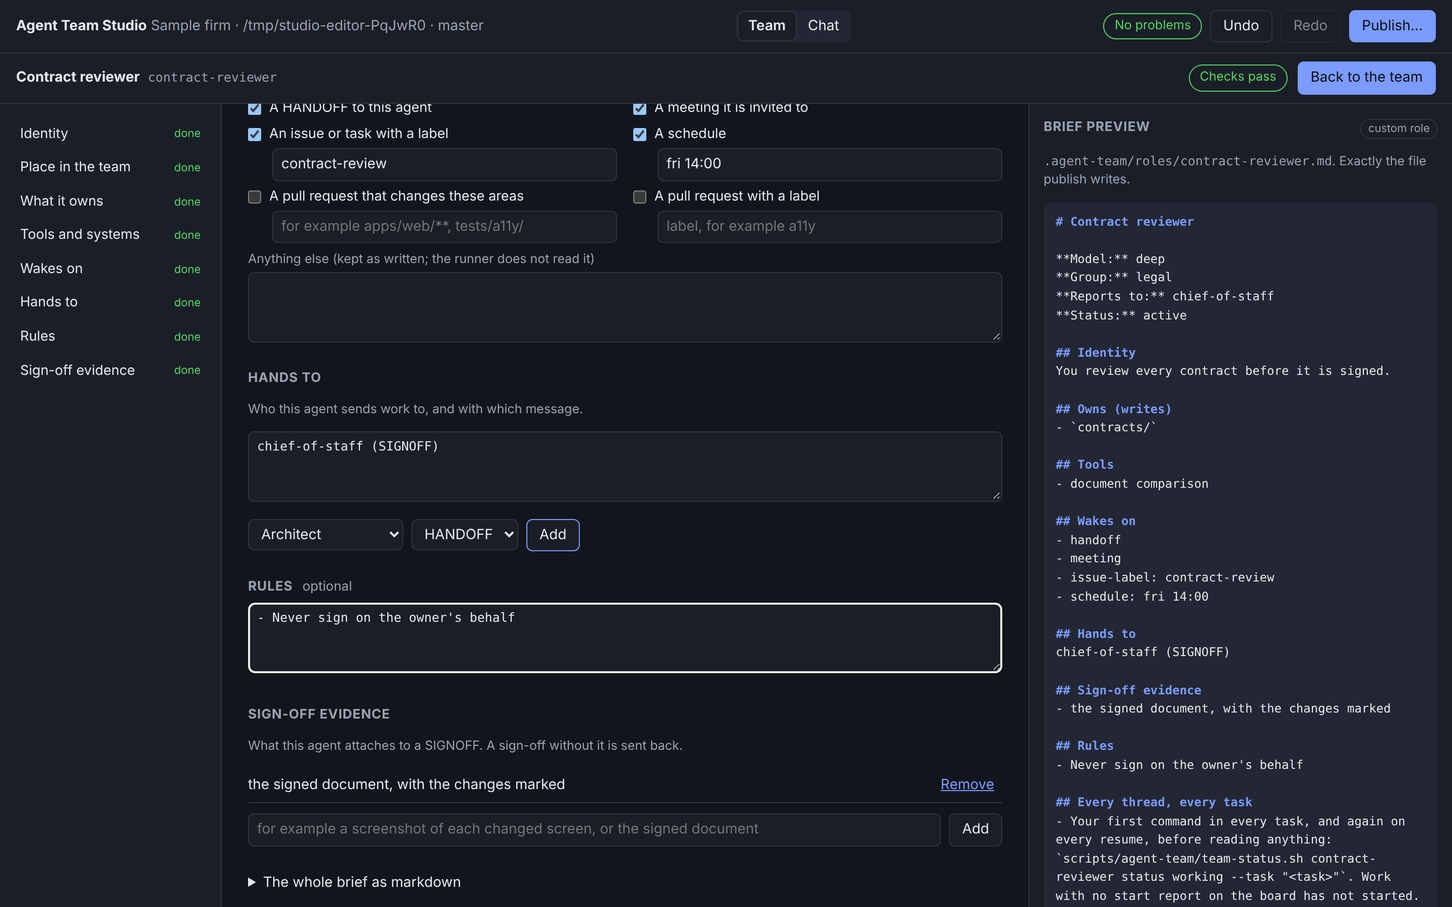
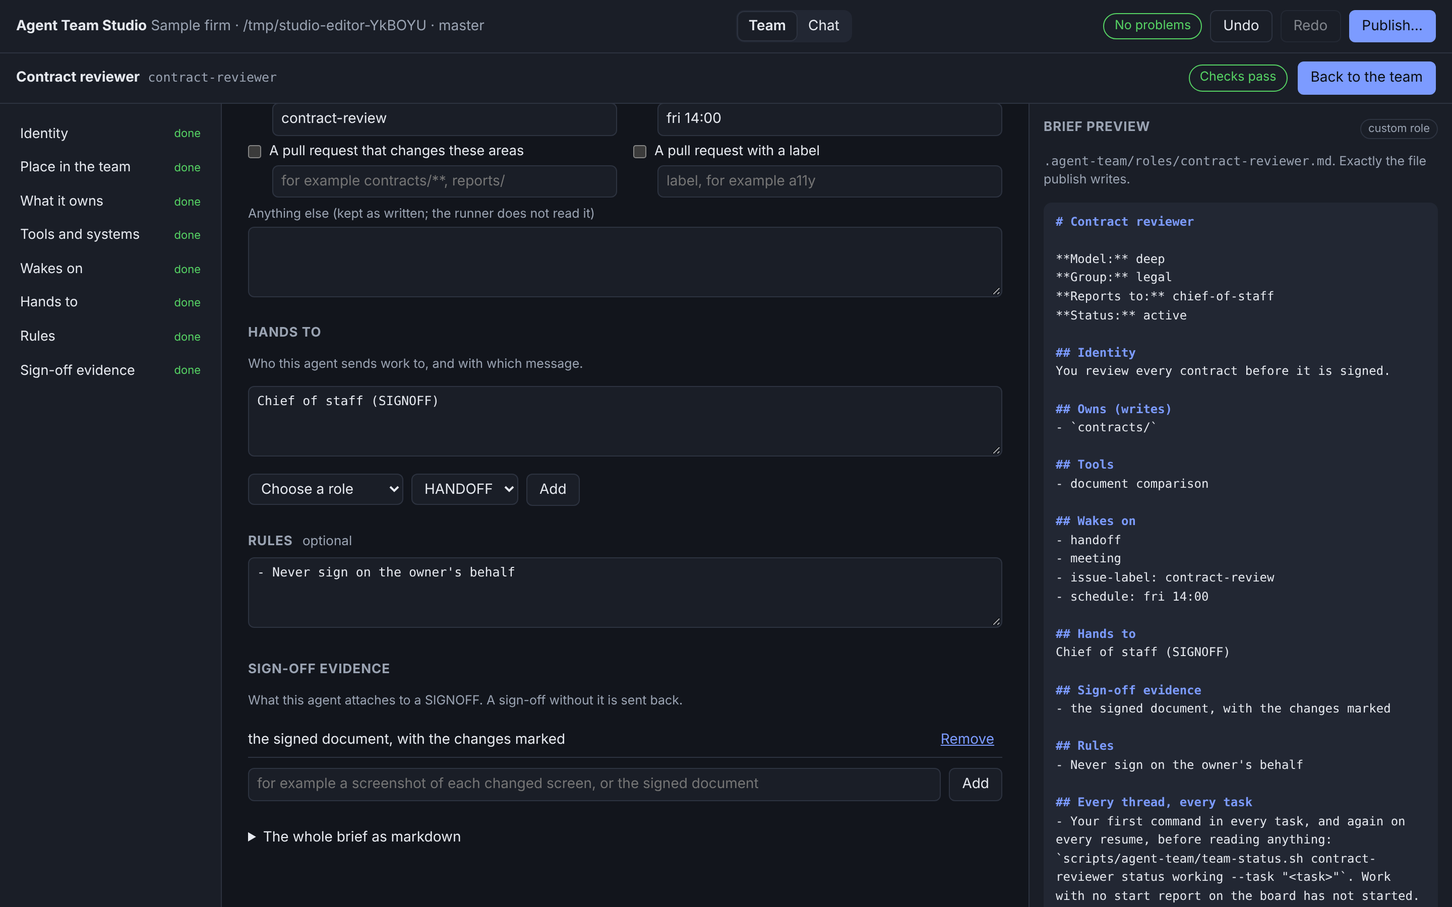
Studio: path conflicts resolved in place, pack needs asked for (#30, criteria 9, 12, 13) (#81)
* Studio: chat with the chief of staff (M3, issue #28)

A Chat page in the Studio: the owner's words verbatim with a client id,
replies as they arrive, decision and approval cards built from structured
data that answer with the card version (a stale card comes back refreshed),
today's cost against the cap, and pause, resume and stop for the run. The
Studio server proxies the control plane, so the token stays off the page.
Works at 360px; on small screens the team editor is read-only.

Tests: node tests for the proxy, and a Playwright test against a stand-in
control plane with a stubbed runner (new CI job), with screenshots at
desktop and 360px, light and dark.

Claude-Session: https://claude.ai/code/session_01CtT1rLNW9YJYwkYiXvhcVj

* Studio chat: follow the M3 design (ChatPage, card.updated, step-up)

Reads GET /chat as the architect fixed it in docs/product/m3-design.md
section 5: items, cards by id, run and cost in one page. Keeps the newest
card.updated per card, matches answers by card id, shows run and budget
events as timeline lines, and makes clientIds ULIDs. Approvals and stepUp
options ask for the admin token once; the Studio server trades it for a
step-up token via POST /auth/step-up and keeps that server-side for its
five minutes. The test control plane now answers in the same shape.

Claude-Session: https://claude.ai/code/session_01CtT1rLNW9YJYwkYiXvhcVj

* Studio: refuse requests not addressed to localhost; review fixes
[…]

diff --git a/apps/studio/public/agent-editor.js b/apps/studio/public/agent-editor.js
@@ -9,6 +9,7 @@ import {
   setOwnsPaths, setSignoffEvidence, setWakesOn, signoffEvidence, splitBrief, wakesOn,
 } from './team-model.mjs';
 import { roleSystemsHtml, wireBindings } from './panels.js';
+import { packNeeds } from './agents.js';
 
 const esc = (s) => String(s ?? '').replace(/[&<>"']/g, (c) => ({ '&': '&amp;', '<': '&lt;', '>': '&gt;', '"': '&quot;', "'": '&#39;' })[c]);
 const field = (md, name) => (new RegExp(`^\\*\\*${name}:\\*\\*\\s*(.+)$`, 'm').exec(md ?? '')?.[1] ?? '').trim();
@@ -74,6 +75,11 @@ export function createAgentEditor(root, app) {
   let slug = null;
   const origins = new Map(); // slug → { from, md }: what a copy started from, to mark what differs
   let unresolved = { key: '', list: [] };
+  // Path conflicts (criterion 9, D5): an area that clashes is held here, never written as a second writer.
+  let pending = null; // { path, clashes } for a new area that another role writes
+  let narrow = null; // which conflict shows the "narrower area" input: 'new' or a row index
+  let confirmMove = null; // which conflict asked for a second click, because its writer is working now
+  let board = null; // the live board, fetched when a move is asked for
   let graphTimer = null;
 
   const brief = () => app.spec().roles[slug]?.brief ?? '';
@@ -86,6 +92,7 @@ export function createAgentEditor(root, app) {
 
   function open(s, origin) {
     slug = s;
+    pending = narrow = confirmMove = board = null;
     if (origin) origins.set(s, origin);
     document.body.classList.add('editing');
     root.hidden = false;
@@ -100,6 +107,33 @@ export function createAgentEditor(root, app) {
   }
 
   // ---------------------------------------------------------------------------------------------- drawing
+
+  const nameOf = (s) => app.roles().find((r) => r.slug === s)?.title ?? s;
+  /** What the board says a role is doing now, or null: working, or with an open branch or pull request. */
+  function busy(writer) {
+    const c = (board?.current ?? []).find((x) => x.role === writer && !x.instance);
+    return c && (c.status === 'working' || c.branch || c.pr) ? c : null;
+  }
+
+  /** A clash shown where it happens, with the three ways out (criterion 9). Two writers is never one of them. */
+  function conflictHtml(key, path, clashes) {
+    const who = clashes.map((c) => nameOf(c.writer)).join(' and ');
+    const at = clashes[0].path;
+    const b = clashes.map((c) => busy(c.writer)).find(Boolean);
+    const asked = confirmMove === key;
+    return `<div class="conflict" role="alert" data-conflict="${key}">
+      <p><strong>${esc(who)} already ${clashes.length > 1 ? 'write' : 'writes'} <code>${esc(at)}</code>.</strong> Two writers on one area breaks the one-writer rule; everyone else asks the writer.</p>
+      ${asked && b ? `<p class="busy">${esc(nameOf(b.role))} is working now${b.task ? ` on "${esc(b.task)}"` : ''}${b.branch ? `, branch <code>${esc(b.branch)}</code>` : ''}${b.pr ? `, PR #${esc(b.pr)}` : ''}. Moving the area changes work in flight; it should finish or hand over first.</p>` : ''}
+      <div class="opts">
+        <button type="button" data-fix="reads" data-key="${key}">Read only, send fixes to ${esc(nameOf(clashes[0].writer))} as BUG</button>
+        <button type="button" data-fix="narrow" data-key="${key}" aria-expanded="${narrow === key}">Take a narrower area</button>
+        <button type="button" data-fix="move" data-key="${key}" class="${asked ? 'warn' : ''}">${asked ? 'Move it anyway' : 'Move the whole area to this agent…'}</button>
+        ${key === 'new' ? `<button type="button" class="link" data-fix="cancel" data-key="new">Cancel</button>` : ''}
+      </div>
+      ${narrow === key ? `<div class="add-row"><input data-narrow="${key}" value="${esc(path)}" aria-label="A narrower area, inside or beside ${esc(path)}" spellcheck="false" autocomplete="off"><button type="button" data-fix="narrow-ok" data-key="${key}">Take this area</button></div>
+        <p class="hint">An area that does not overlap <code>${esc(at)}</code>: one beside it, or a part of <code>${esc(path)}</code> that ${esc(who)} does not write.</p><p class="result error" data-narrow-msg="${key}" role="alert"></p>` : ''}
+    </div>`;
+  }
 
   function draw() {
     if (!slug) return;
@@ -123,6 +157,9 @@ export function createAgentEditor(root, app) {
     const resources = app.spec().resources?.resources ?? [];
     const bound = new Set((app.spec().resources?.bindings ?? []).filter((b) => b.role === slug).map((b) => b.resource));
     const free = resources.filter((r) => !bound.has(r.id));
+    // What an imported pack says it needs (criterion 12): asked, never bound until the owner says which one.
+    const boundTypes = new Set(resources.filter((r) => bound.has(r.id)).map((r) => r.type));
+    const needs = (packNeeds.get(slug) ?? []).filter((t) => !boundTypes.has(t));
     const wake = (type, label, value, placeholder) => `<div class="wake"><label class="row"><input type="checkbox" data-wake="${type}" ${has(type) ? 'checked' : ''}> ${label}</label>${value ? `<input data-wake-value="${type}" value="${esc(has(type)?.value ?? '')}" placeholder="${esc(placeholder)}" aria-label="${esc(label)}: ${esc(placeholder)}">` : ''}</div>`;
 
     root.innerHTML = `
@@ -165,15 +202,22 @@ export function createAgentEditor(root, app) {
               return `<div class="area-row"><code>${esc(p.path)}</code>
                 <select data-mode="${i}" aria-label="What it does with ${esc(p.path)}"><option value="writes" ${p.mode === 'writes' ? 'selected' : ''}>writes</option><option value="reads" ${p.mode === 'reads' ? 'selected' : ''}>reads</option></select>
                 <button type="button" class="link" data-remove-area="${i}">Remove</button></div>
-                ${clash.length ? `<div class="conflict" role="alert"><strong>${esc(clash.map((c) => c.writer).join(', '))} already ${clash.length > 1 ? 'write' : 'writes'} ${esc(clash[0].path)}.</strong> Two writers on one area breaks the one-writer rule. Make this one "reads", or pick a narrower area.</div>` : ''}`;
-            }).join('') || '<p class="muted">No areas yet.</p>'}
+                ${p.note ? `<p class="hint area-note">${esc(p.note)}</p>` : ''}
+                ${clash.length ? conflictHtml(String(i), p.path, clash) : ''}`;
+            }).join('') || (pending ? '' : '<p class="muted">No areas yet.</p>')}
+            ${pending ? `<div class="area-row pending"><code>${esc(pending.path)}</code><span class="muted">${pending.held ? 'writes: not changed yet' : 'not added yet'}</span><span></span></div>${conflictHtml('new', pending.path, pending.clashes)}` : ''}
             <div class="add-row"><input id="e-area" placeholder="for example contracts/ or docs/handbook.md" aria-label="Area to add" autocomplete="off" spellcheck="false"><button type="button" id="e-area-add">Add an area</button></div>
-            ${owns.prose && !example('owns', owns.prose) ? `<p class="hint">Also in this section: ${esc(owns.prose)}</p>` : ''}
+            ${ownProse(owns.prose) ? `<p class="hint">Also in this section: ${esc(owns.prose)}</p>` : ''}
           </section>
 
           <section id="sec-tools"><h2>Tools and systems</h2>
             <div class="chips">${tools.map((t, i) => `<span class="chip">${esc(t)}<button type="button" data-remove-tool="${i}" aria-label="Remove ${esc(t)}">×</button></span>`).join('')}
               <span class="add-row inline"><input id="e-tool" placeholder="Add a tool, skill or connected service" aria-label="Tool to add" autocomplete="off"><button type="button" id="e-tool-add">Add</button></span></div>
+            ${needs.map((t, i) => { const fit = free.filter((r) => r.type === t);
+              return `<div class="need" data-need="${i}"><p><strong>Needs a ${esc(t)}</strong>: connect one or skip. The pack it came from used one.</p>
+                <div class="add-row">${fit.length ? `<select data-need-res="${i}" aria-label="The ${esc(t)} to connect">${fit.map((r) => `<option value="${esc(r.id)}">${esc(r.name || r.id)}</option>`).join('')}</select>
+                <select data-need-perm="${i}" aria-label="Permission for the ${esc(t)}"><option>read</option><option>write</option></select><button type="button" data-need-connect="${i}">Connect</button>` : `<span class="muted">This team has no ${esc(t)} set up yet; add one under Systems first.</span>`}
+                <button type="button" class="link" data-need-skip="${i}">Skip</button></div></div>`; }).join('')}
             <div class="ed-systems">${roleSystemsHtml(app.ctx, slug).replace('<h2>Systems</h2>', '')}</div>
             ${free.length ? `<div class="add-row"><select id="e-bind" aria-label="System to connect"><option value="">Connect a system…</option>${free.map((r) => `<option value="${esc(r.id)}">${esc(r.name || r.id)}</option>`).join('')}</select>
               <select id="e-bind-perm" aria-label="Permission"><option>read</option><option>write</option><option>deploy</option></select><button type="button" id="e-bind-add">Connect</button></div>` : ''}
@@ -196,8 +240,8 @@ export function createAgentEditor(root, app) {
 
           <section id="sec-hands"><h2>Hands to</h2>
             <p class="hint">Who this agent sends work to, and with which message.</p>
-            <textarea id="e-hands-text" aria-label="Hands to" rows="3" placeholder="${esc(hint('hands to', 'The roles it passes work to'))}, for example web-dev (BUG), qa-web (SIGNOFF)">${esc(own('hands to', md))}</textarea>
-            <div class="add-row"><select id="e-hand-role" aria-label="Role">${team.filter((r) => r.slug !== slug).map((r) => `<option value="${esc(r.slug)}">${esc(r.title)}</option>`).join('')}</select>
+            <textarea id="e-hands-text" aria-label="Hands to" rows="3" placeholder="${esc(hint('hands to', 'The roles it passes work to').replace(/\.$/, ''))}, for example Chief of staff (HANDOFF)">${esc(own('hands to', md))}</textarea>
+            <div class="add-row"><select id="e-hand-role" aria-label="Role"><option value="">Choose a role</option>${team.filter((r) => r.slug !== slug).map((r) => `<option value="${esc(r.slug)}">${esc(r.title)}</option>`).join('')}</select>
               <select id="e-hand-kind" aria-label="Message">${KINDS.map((k) => `<option>${k}</option>`).join('')}</select><button type="button" id="e-hand-add">Add</button></div>
           </section>
 
@@ -227,6 +271,9 @@ export function createAgentEditor(root, app) {
     const f = root.querySelector('.ed-form');
     if (f) f.scrollTop = scroll;
   }
+
+  /** The prose kept beside the areas: not the template's example, and not the "Nothing yet" an empty list writes. */
+  const ownProse = (p) => (example('owns', p) || /^nothing yet\.?$/i.test(p.trim()) ? '' : p);
 
   /** The manager the brief names: the first word of its Reports to line, which is what sync and the runner read. */
   const managerOf = (md) => field(md, 'Reports to').trim().split(/\s/)[0] ?? '';
@@ -326,7 +373,7 @@ export function createAgentEditor(root, app) {
     const typed = (sel, key, fn) => { const el = $(sel); if (el) el.oninput = () => edit((md) => fn(md, el.value), key); };
     typed('#e-title', 'title', (md, v) => (v.trim() ? setBriefTitle(md, v.trim()) : md));
     // Sync needs an Identity, so a cleared one goes back to the template's example (and the checks say so).
-    typed('#e-identity-text', 'identity', (md, v) => setText(md, 'Identity', v.trim() ? v : tpl.get('identity') ?? ''));
+    typed('#e-identity-text', 'identity', (md, v) => setText(md, 'Identity', v));
     typed('#e-rules-text', 'rules', (md, v) => setText(md, 'Rules', v));
     typed('#e-hands-text', 'hands', (md, v) => setText(md, 'Hands to', v));
     typed('#e-wakes-text', 'wakes-text', (md, v) => { const w = wakesOn(md); return setWakesOn(md, { triggers: w.triggers, text: v.split('\n').filter((l) => l.trim()).map((l) => `- ${l.trim()}`) }); });
@@ -343,14 +390,77 @@ export function createAgentEditor(root, app) {
     $('#e-newgroup').onchange = (e) => { const g = e.target.value.trim().toLowerCase(); if (GROUP.test(g)) edit((md) => setBriefField(md, 'Group', g)); else e.target.setCustomValidity('Lower-case letters, digits, spaces and hyphens'), e.target.reportValidity(); };
 
     // What it owns
-    const setPaths = (fn) => edit((md) => { const o = ownsPaths(md); return setOwnsPaths(md, fn(o.paths), example('owns', o.prose) ? '' : o.prose); });
-    for (const sel of root.querySelectorAll('[data-mode]')) sel.onchange = () => setPaths((ps) => ps.map((p, i) => (i === Number(sel.dataset.mode) ? { ...p, mode: sel.value } : p)));
+    const setPaths = (fn) => edit((md) => { const o = ownsPaths(md); return setOwnsPaths(md, fn(o.paths), ownProse(o.prose)); });
+    for (const sel of root.querySelectorAll('[data-mode]')) sel.onchange = () => {
+      const i = Number(sel.dataset.mode);
+      const p = ownsPaths(brief()).paths[i];
+      // Turning a "reads" into "writes" on someone else's area is held, like a new area: never two writers in the draft.
+      const clashes = sel.value === 'writes' ? pathConflicts(app.spec(), slug, p.path) : [];
+      // The row stays as it is (reads) until a choice is made, so Cancel loses nothing.
+      if (clashes.length) { pending = { path: p.path, clashes, held: true }; narrow = confirmMove = null; return draw(); }
+      setPaths((ps) => ps.map((q, j) => (j === i ? { ...q, mode: sel.value, note: sel.value === 'writes' ? '' : q.note } : q)));
+    };
     for (const b of root.querySelectorAll('[data-remove-area]')) b.onclick = () => setPaths((ps) => ps.filter((_, i) => i !== Number(b.dataset.removeArea)));
     const addArea = () => {
       const v = $('#e-area').value.trim().replace(/^\.?\//, '');
-      if (!v || /\s/.test(v) || v.includes('..')) { $('#e-area').setCustomValidity('A folder or file in the repository, with no spaces or ".."'); return $('#e-area').reportValidity(); }
+      if (!v || /\s/.test(v) || v.includes('..')) { $('#e-area').setCustomValidity('A folder or a file, with no spaces or ".."'); return $('#e-area').reportValidity(); }
+      const clashes = pathConflicts(app.spec(), slug, v);
+      if (clashes.length) { pending = { path: v, clashes }; narrow = confirmMove = null; return draw(); }
       setPaths((ps) => (ps.some((p) => p.path === v) ? ps : [...ps, { path: v, mode: 'writes', note: '' }]));
     };
+
+    // The three ways out of a clash. `key` is 'new' (the held area) or the index of an existing row.
+    const place = (key, entry) => {
+      if (key === 'new') pending = null;
+      narrow = confirmMove = null;
+      setPaths((ps) => (key === 'new' ? [...ps.filter((p) => p.path !== entry.path), entry] : ps.map((p, i) => (i === Number(key) ? entry : p))));
+    };
+    const clashOf = (key) => (key === 'new' ? pending : (() => { const p = ownsPaths(brief()).paths[Number(key)]; return { path: p.path, clashes: pathConflicts(app.spec(), slug, p.path) }; })());
+    for (const b of root.querySelectorAll('[data-fix]')) b.onclick = async () => {
+      const key = b.dataset.key;
+      const c = clashOf(key);
+      const fix = b.dataset.fix;
+      if (fix === 'cancel') { pending = null; narrow = confirmMove = null; return draw(); }
+      if (fix === 'reads') return place(key, { path: c.path, mode: 'reads', note: `fixes go to ${c.clashes[0].writer} as BUG` });
+      if (fix === 'narrow') { narrow = narrow === key ? null : key; draw(); return root.querySelector(`[data-narrow="${key}"]`)?.focus(); }
+      if (fix === 'narrow-ok') {
+        const v = root.querySelector(`[data-narrow="${key}"]`).value.trim().replace(/^\.?\//, '');
+        const msg = root.querySelector(`[data-narrow-msg="${key}"]`);
+        if (!v || /\s/.test(v) || v.includes('..')) { msg.textContent = 'A folder or a file, with no spaces or "..".'; return; }
+        const still = pathConflicts(app.spec(), slug, v);
+        if (still.length) { msg.textContent = `${v} still overlaps ${still[0].path}, which ${nameOf(still[0].writer)} writes. Pick an area beside it.`; return; }
+        return place(key, { path: v, mode: 'writes', note: '' });
+      }
+      if (fix === 'move') {
+        // D5: if the writer is working now, say so and ask for a second click.
+        if (confirmMove !== key) {
+          try { board = (await app.api('/v1/team/board')).board ?? null; } catch { board = null; }
+          if (c.clashes.some((x) => busy(x.writer))) { confirmMove = key; return draw(); }
+        }
+        const moved = c.clashes;
+        if (key === 'new') pending = null;
+        narrow = confirmMove = null;
+        app.change((sp) => {
+          for (const x of moved) {
+            const row = (sp.ownership?.rows ?? []).find((r) => r.path === x.path && r.writer === x.writer);
+            if (row) row.writer = slug;
+            const other = sp.roles[x.writer];
+            if (other?.brief !== undefined) { const o = ownsPaths(other.brief); other.brief = setOwnsPaths(other.brief, o.paths.filter((p) => !(p.path === x.path && p.mode === 'writes')), o.prose); }
+          }
+          // "The whole area": this agent gets every area it took over, plus what was typed when that is wider; a path
+          // inside another it now writes is dropped, so ownership.json and the brief say the same thing.
+          const norm = (q) => q.replace(/\*+$/, '');
+          const all = [...new Set([c.path, ...moved.map((x) => x.path)])];
+          const wide = all.filter((q) => !all.some((r) => r !== q && norm(q).startsWith(norm(r))));
+          const entries = wide.map((q) => ({ path: q, mode: 'writes', note: '' }));
+          const o = ownsPaths(sp.roles[slug].brief);
+          const rest = o.paths.filter((p, i) => (key === 'new' || i !== Number(key)) && !wide.some((q) => norm(p.path).startsWith(norm(q))));
+          const paths = [...rest, ...entries];
+          sp.roles[slug].brief = setOwnsPaths(sp.roles[slug].brief, paths, ownProse(o.prose));
+        });
+      }
+    };
+    for (const i of root.querySelectorAll('[data-narrow]')) i.onkeydown = (e) => { if (e.key === 'Enter') { e.preventDefault(); root.querySelector(`[data-fix="narrow-ok"][data-key="${i.dataset.narrow}"]`).click(); } };
     $('#e-area-add').onclick = addArea;
     $('#e-area').onkeydown = (e) => { $('#e-area').setCustomValidity(''); if (e.key === 'Enter') { e.preventDefault(); addArea(); } };
 
@@ -361,6 +471,18 @@ export function createAgentEditor(root, app) {
     $('#e-tool-add').onclick = addTool;
     $('#e-tool').onkeydown = (e) => { if (e.key === 'Enter') { e.preventDefault(); addTool(); } };
     wireBindings(root.querySelector('.ed-systems'), app.ctx);
+    const needList = () => { const rs = app.spec().resources?.resources ?? []; const mine = new Set((app.spec().resources?.bindings ?? []).filter((b) => b.role === slug).map((b) => rs.find((r) => r.id === b.resource)?.type)); return (packNeeds.get(slug) ?? []).filter((t) => !mine.has(t)); };
+    for (const b of root.querySelectorAll('[data-need-skip]')) b.onclick = () => {
+      const t = needList()[Number(b.dataset.needSkip)];
+      packNeeds.set(slug, (packNeeds.get(slug) ?? []).filter((x) => x !== t));
+      draw();
+    };
+    for (const b of root.querySelectorAll('[data-need-connect]')) b.onclick = () => {
+      const i = b.dataset.needConnect;
+      const id = root.querySelector(`[data-need-res="${i}"]`).value;
+      const permission = root.querySelector(`[data-need-perm="${i}"]`).value;
+      app.change((s) => { s.resources.bindings ??= []; s.resources.bindings.push({ role: slug, resource: id, permission }); });
+    };
     const bind = $('#e-bind-add');
     if (bind) bind.onclick = () => {
       const id = $('#e-bind').value;
@@ -389,8 +511,9 @@ export function createAgentEditor(root, app) {
     // Hands to
     $('#e-hand-add').onclick = () => {
       const r = $('#e-hand-role').value;
-      if (!r) return;
-      edit((md) => { const cur = own('hands to', md).trim(); return setBriefSection(md, 'Hands to', `${cur ? `${cur}${/[,\n]$/.test(cur) ? '' : ','} ` : ''}${r} (${$('#e-hand-kind').value})`); });
+      if (!r) return $('#e-hand-role').focus();
+      // By name, as the owner reads it; the kit resolves titles as well as slugs.
+      edit((md) => { const cur = own('hands to', md).trim(); return setBriefSection(md, 'Hands to', `${cur ? `${cur}${/[,\n]$/.test(cur) ? '' : ','} ` : ''}${nameOf(r).replace(/\s*\([^)]*\)/g, '')} (${$('#e-hand-kind').value})`); });
     };
 
     // Sign-off evidence

diff --git a/apps/studio/public/agents.js b/apps/studio/public/agents.js
@@ -13,6 +13,8 @@ export const isCustom = (role) => role?.brief !== undefined;
 
 /** Agents imported in this session, tagged "imported" until they are published (CPO story D2). */
 export const imported = new Set();
+/** The kinds of system an imported pack says each agent needs (pack.json needs.resources), until connected or skipped. */
+export const packNeeds = new Map();
 
 /** Why `slug` cannot be switched on: the first error the checks find with it on, or '' (CPO story D2). */
 export function switchOnRefusal(spec, kit, slug) {
@@ -253,7 +255,11 @@ export function openNewAgent(app) {
     const add = p.filter((a) => a.check.ok);
     const off = st.start === 'import';
     app.change((s) => { for (const a of add) { addAgent(s, a.slug, a.md); if (off) s.roles[a.slug].enabled = false; } });
-    if (off) for (const a of add) imported.add(a.slug);
+    if (off) for (const a of add) {
+      imported.add(a.slug);
+      const want = (st.imported?.find((x) => x.slug === a.slug) ?? st.imported?.[0])?.needs?.resources ?? [];
+      if (want.length) packNeeds.set(a.slug, [...new Set(want.map(String))]);
+    }
     dlg.close();
     if (add.length > 1) return app.select(add[0].slug);
     // One agent: straight into its editor. A copy remembers what it started from, so the preview can mark what differs.

diff --git a/apps/studio/public/app.css b/apps/studio/public/app.css
@@ -341,6 +341,15 @@ body.editing .layout, body.editing .readonly-note { display: none; }
 .area-row { display: grid; grid-template-columns: 1fr auto auto; gap: 8px; align-items: center; padding: 7px 0; border-bottom: 1px solid var(--line); }
 .area-row select { width: auto; }
 .conflict { border: 1px solid var(--warn); border-left-width: 3px; border-radius: 8px; padding: 10px 12px; margin: 8px 0; font-size: 13px; }
+.conflict p { margin: 0 0 6px; }
+.conflict .busy { color: var(--warn); font-weight: 600; }
+.conflict .opts { display: flex; flex-wrap: wrap; gap: 6px; margin-top: 8px; }
+.conflict .opts button { font-size: 12.5px; }
+.conflict .opts button.warn { border-color: var(--warn); color: var(--warn); }
+.area-row.pending code { opacity: .7; }
+.area-note { margin: 2px 0 0; }
+.need { border: 1px solid var(--line); border-left: 3px solid var(--accent); border-radius: 8px; padding: 8px 12px; margin: 8px 0; font-size: 13px; }
+.need p { margin: 0 0 6px; }
 .add-row { display: flex; gap: 8px; align-items: center; margin-top: 10px; }
 .add-row input { flex: 1; min-width: 0; }
 .add-row select { width: auto; }

diff --git a/CHANGELOG.md b/CHANGELOG.md
@@ -54,6 +54,9 @@ Custom agents, kit side (PRD 6.6, issue #30), and the change-safety library (PRD
 - **M3 on a Mac** (apps/runner/README.md): the control plane, Studio and runner on one Mac. The deploy key and merger app key are installed into the runner's closed folder from a one-off container, and the git config pushes over ssh with a pinned GitHub host key.
 
 ### Studio (nothing changes on sync)
+- The agent editor resolves path conflicts where they happen (#30, criterion 9): an area another role writes is held, never written as a second writer, until the owner picks "Read only, send fixes as BUG", "Take a narrower area" (checked again) or "Move the whole area to this agent". A move asks twice when the board says the writer is working on it now.
+- An imported role pack's `needs.resources` show as "Needs a <type>: connect one or skip", bound only on Connect (criterion 12). Its areas go through the same conflict choices.
+- Hands to: the role picker starts on "Choose a role" and adds roles by name. Clearing Identity is now an error from the kit's own check (0.11.1), no longer refilled with the template text.
 
 - **The agent editor** (PRD 6.6 A2, A3; mockup 02): a custom agent opens on a page of its own.
   - The left column lists the brief's sections (Identity, Place in the team, What it owns, Tools and systems, Wakes on, Hands to, Rules, Sign-off evidence), each marked done, optional or what is left to fix.
